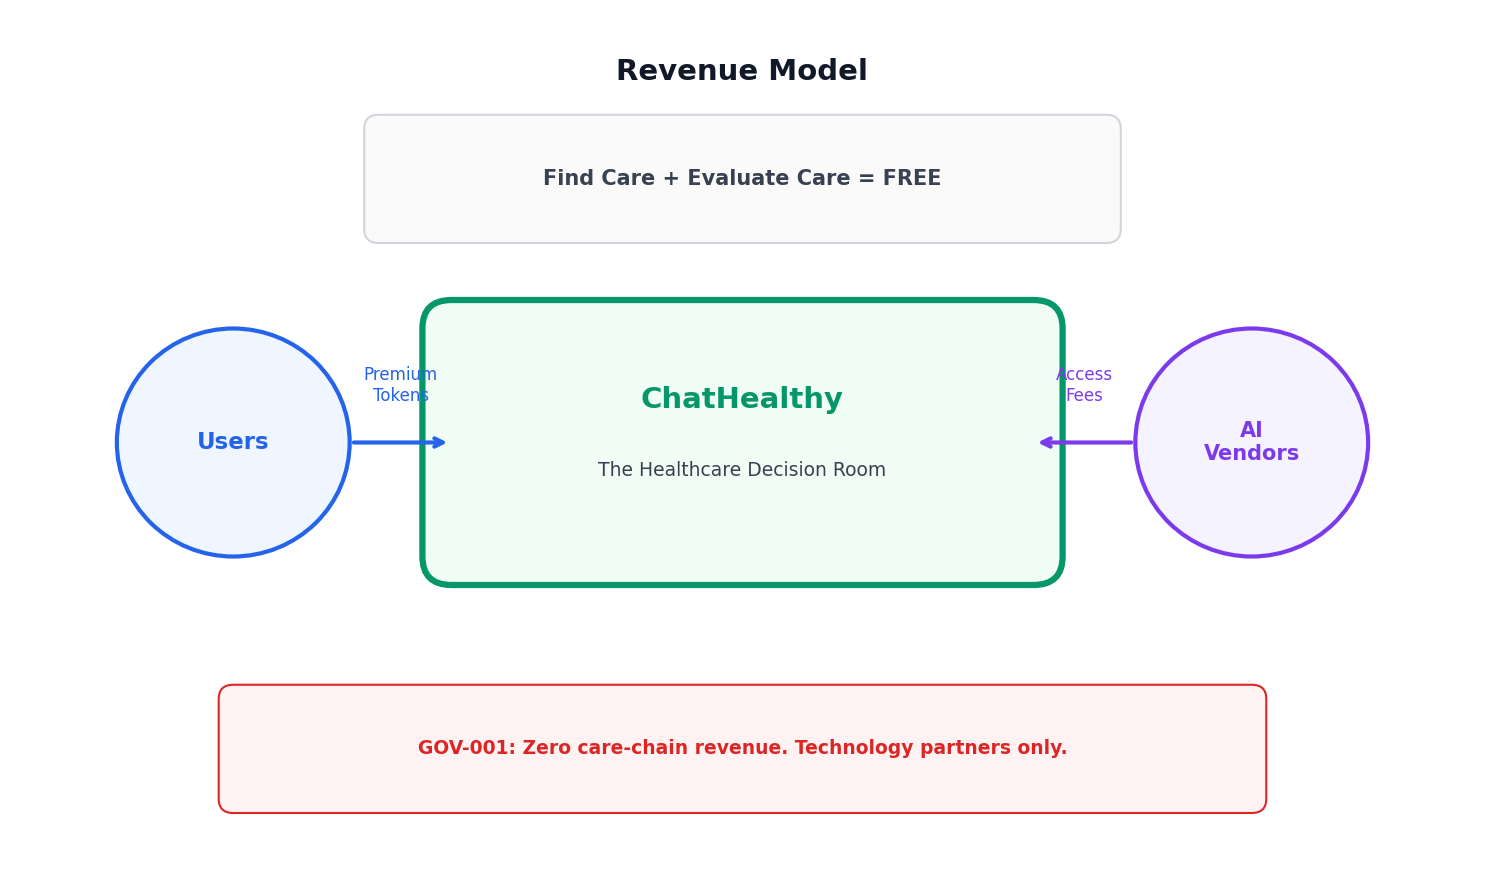
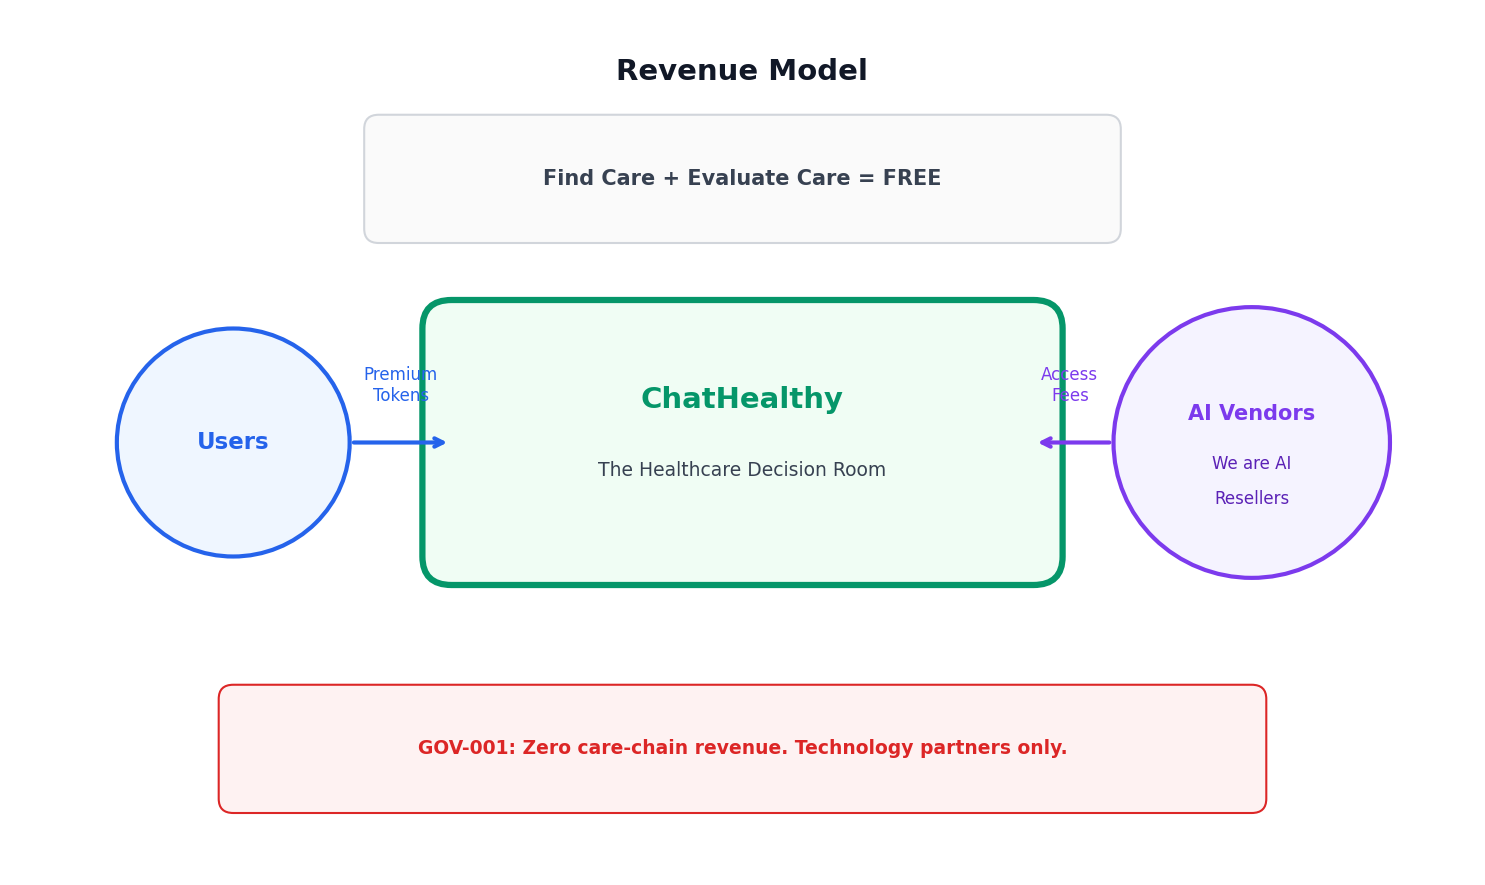
[Unattended] Build 239: Revenue diagram — AI Vendors: "We are AI Resellers"

Changed region(s): [[0.7125, 0.3356, 0.9603, 0.6712]]

diff --git a/Code/Shared/ops/brain_biz_arch_diagrams.py b/Code/Shared/ops/brain_biz_arch_diagrams.py
@@ -148,10 +148,12 @@ def generate_revenue_flow_diagram(spec):
     ax.text(2.65, 3.4, 'Premium\nTokens', ha='center', va='center', fontsize=8, color='#2563eb')
 
     # AI Vendors (right)
-    ax.add_patch(mpatches.Circle((8.5, 3.0), 0.8, facecolor='#f5f3ff', edgecolor='#7c3aed', linewidth=2))
-    ax.text(8.5, 3.0, 'AI\nVendors', ha='center', va='center', fontsize=10, fontweight='bold', color='#7c3aed')
-    ax.annotate('', xy=(7.0, 3.0), xytext=(7.7, 3.0), arrowprops=dict(arrowstyle='->', color='#7c3aed', lw=2))
-    ax.text(7.35, 3.4, 'Access\nFees', ha='center', va='center', fontsize=8, color='#7c3aed')
+    ax.add_patch(mpatches.Circle((8.5, 3.0), 0.95, facecolor='#f5f3ff', edgecolor='#7c3aed', linewidth=2))
+    ax.text(8.5, 3.2, 'AI Vendors', ha='center', va='center', fontsize=10, fontweight='bold', color='#7c3aed')
+    ax.text(8.5, 2.85, 'We are AI', ha='center', va='center', fontsize=8, color='#5b21b6')
+    ax.text(8.5, 2.6, 'Resellers', ha='center', va='center', fontsize=8, color='#5b21b6')
+    ax.annotate('', xy=(7.0, 3.0), xytext=(7.55, 3.0), arrowprops=dict(arrowstyle='->', color='#7c3aed', lw=2))
+    ax.text(7.25, 3.4, 'Access\nFees', ha='center', va='center', fontsize=8, color='#7c3aed')
 
     # Free services (top)
     ax.add_patch(mpatches.FancyBboxPatch((2.5, 4.5), 5, 0.7, boxstyle="round,pad=0.1", facecolor='#fafafa', edgecolor='#d1d5db', linewidth=1))
